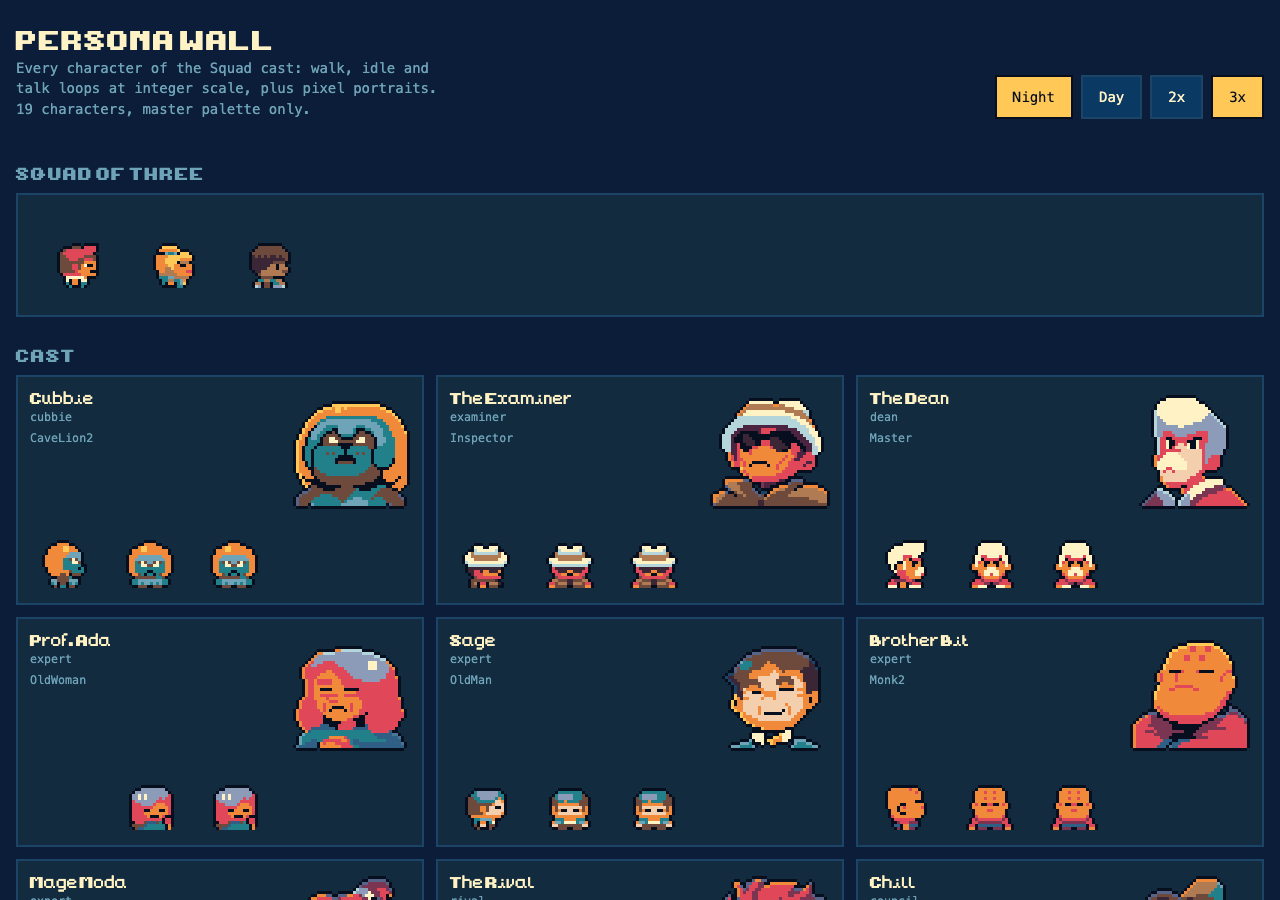
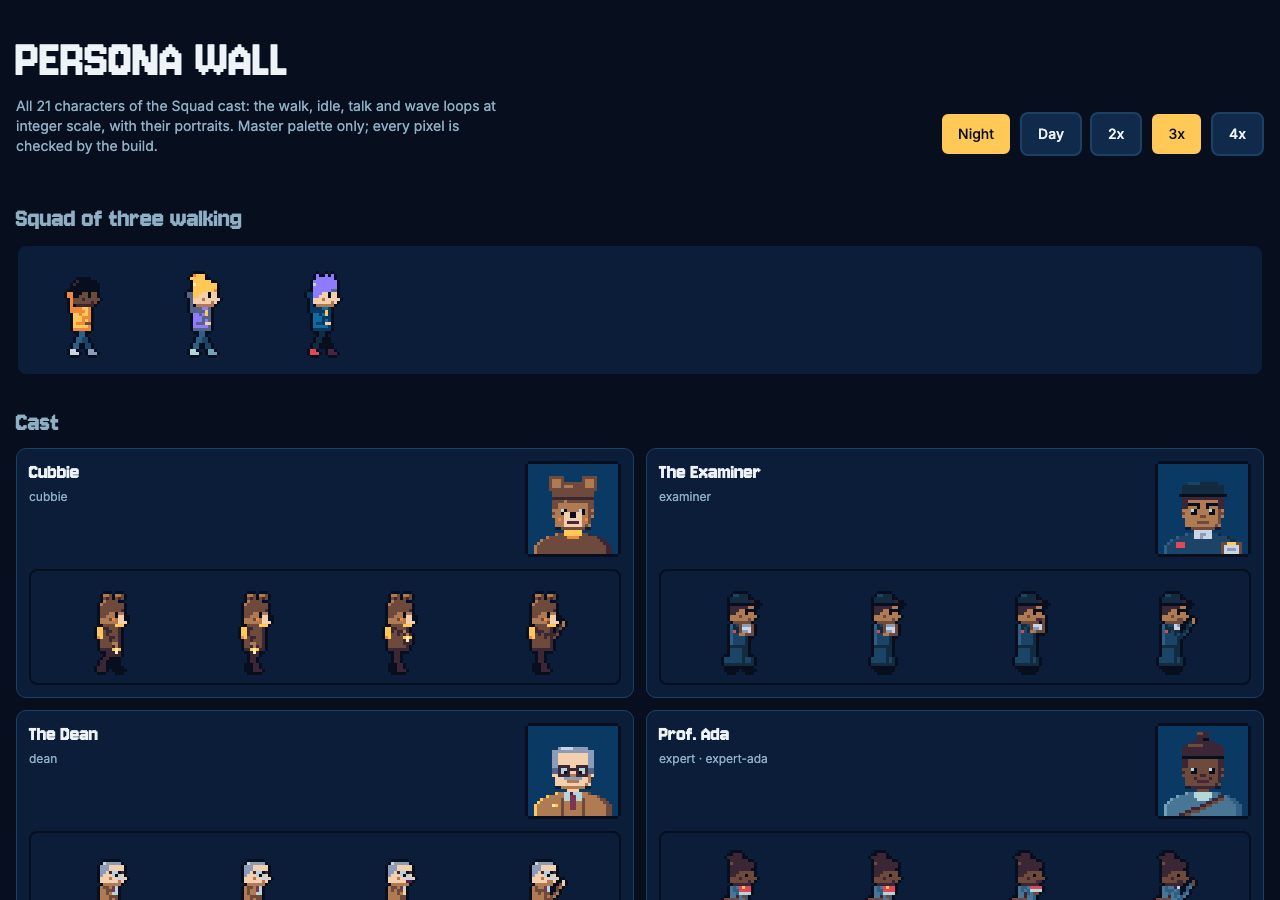
media-art: persona wall v2 (Jersey 10 + Inter, night plates), GIFs, README, shots

diff --git a/assets/sprites/wall/persona-wall.html b/assets/sprites/wall/persona-wall.html
@@ -1,49 +1,51 @@
 <!doctype html>
-<html lang="en"><head><meta charset="utf-8"><meta name="viewport" content="width=device-width,initial-scale=1">
+<html lang="en" data-theme="dark"><head><meta charset="utf-8"><meta name="viewport" content="width=device-width,initial-scale=1">
 <title>Persona Wall</title>
 <style>
-@font-face{font-family:"Ninja";src:url(pixel-font.ttf) format("truetype")}
+@font-face{font-family:"Jersey 10";src:url(../../fonts/jersey-10/Jersey10-latin.woff2) format("woff2");font-display:swap}
+@font-face{font-family:"Inter";src:url(../../fonts/inter/InterVariable-latin.woff2) format("woff2");font-weight:100 900;font-display:swap}
 :root{--ink:#070f1f;--sky-deep:#0b1d38;--sky-mid:#0a3a63;--sky-low:#0c6e9e;--cloud-lo:#6fa3b8;--cloud-hi:#b4d6da;--moon:#fff2c4;--hill-far:#4a7695;--hill-mid:#2f5f84;--hill-near:#1c4466;--ground:#122b3f;--leaf-dark:#0d3a4f;--leaf-lit:#22808a;--wall-lit:#c9d4e4;--wall-mid:#8c9bb8;--wall-shade:#56648a;--roof-wine:#7a3552;--roof-shade:#4a2440;--wood-lit:#b07a52;--wood:#6e4a3c;--wood-dark:#3a2634;--glow-core:#fff0a8;--glow:#ffc857;--ember:#f08a3a;--alert:#e0485a;--ok:#5fcf8a;--skin-lt:#f3cfae;--violet:#8f7bff;
- --bg:var(--sky-deep);--fg:var(--moon);--mut:var(--cloud-lo);--card:var(--ground);--line:var(--hill-near);--scale:3;--chip:var(--sky-mid)}
-:root[data-theme="light"]{--bg:var(--wall-lit);--fg:var(--ink);--mut:var(--wall-shade);--card:#dfe6f0;--line:var(--wall-mid);--chip:var(--cloud-hi)}
+ --bg:var(--ink);--fg:#eef3f8;--mut:#8fb0c4;--card:var(--sky-deep);--line:#1d4163;--chip:#0f2a4a;--accent:var(--glow);--on-accent:var(--ink);--px:3}
+:root[data-theme="light"]{--bg:#f4f1e8;--fg:#0b1d38;--mut:#4d5b78;--card:#fbf9f3;--line:#d6d3c6;--chip:#e9e5d8;--accent:var(--sky-deep);--on-accent:var(--moon)}
 *{box-sizing:border-box}
-body{margin:0;background:var(--bg);color:var(--fg);font:14px/1.45 ui-monospace,SFMono-Regular,Menlo,monospace}
-header{display:flex;flex-wrap:wrap;gap:12px 24px;align-items:end;justify-content:space-between;padding:24px 16px 8px;max-width:1280px;margin:0 auto}
-h1{font:400 28px/1 "Ninja",monospace;margin:0;letter-spacing:.04em}
-header p{margin:6px 0 0;color:var(--mut);max-width:52ch}
-.ctl{display:flex;gap:8px}
-button{font:inherit;min-height:44px;padding:0 16px;border:2px solid var(--line);background:var(--chip);color:var(--fg);cursor:pointer;border-radius:0}
-button[aria-pressed="true"]{background:var(--glow);color:var(--ink);border-color:var(--ink)}
+body{margin:0;background:var(--bg);color:var(--fg);font:16px/24px Inter,system-ui,sans-serif}
+header{display:flex;flex-wrap:wrap;gap:16px 24px;align-items:flex-end;justify-content:space-between;padding:32px 16px 8px;max-width:1280px;margin:0 auto}
+h1{font:400 56px/1 "Jersey 10",monospace;margin:0;letter-spacing:0}
+header p{margin:8px 0 0;color:var(--mut);max-width:56ch;font-size:14px;line-height:20px}
+.ctl{display:flex;gap:8px;flex-wrap:wrap}
+button{font:500 14px/20px Inter,sans-serif;min-height:44px;min-width:48px;padding:0 16px;border:2px solid var(--line);background:var(--chip);color:var(--fg);cursor:pointer;border-radius:8px;transition:background-color .15s,transform .1s}
+button:active{transform:scale(.97)}
+button[aria-pressed="true"]{background:var(--accent);color:var(--on-accent);border-color:var(--ink)}
 button:focus-visible{outline:3px solid var(--violet);outline-offset:2px}
-main{max-width:1280px;margin:0 auto;padding:8px 16px 48px}
-h2{font:400 18px/1 "Ninja",monospace;margin:28px 0 12px;color:var(--mut);letter-spacing:.06em}
-.squad{display:flex;gap:24px;align-items:end;padding:24px;background:var(--card);border:2px solid var(--line);overflow-x:auto}
-.grid{display:grid;grid-template-columns:repeat(auto-fill,minmax(min(100%,calc(var(--scale)*104px + 24px)),1fr));gap:12px}
-.card{background:var(--card);border:2px solid var(--line);padding:12px;display:grid;gap:10px}
-.card h3{margin:0;font:400 16px/1.1 "Ninja",monospace}.card small{color:var(--mut)}
-.row{display:flex;align-items:flex-end;gap:12px;min-height:calc(var(--scale)*24px)}
-.sp{width:calc(var(--scale)*24px);height:calc(var(--scale)*24px);flex:none;background-repeat:no-repeat;image-rendering:pixelated;background-size:calc(var(--scale)*var(--w)*24px) calc(var(--scale)*24px)}
-.sp.walk{animation:walk .5s steps(4) infinite}.sp.idle{animation:idle 1s steps(2) infinite}.sp.talk{animation:talk .25s steps(2) infinite}
-@keyframes walk{from{background-position-x:calc(var(--scale)*-24px*var(--s0))}to{background-position-x:calc(var(--scale)*-24px*(var(--s0) + 4))}}
-@keyframes idle{from{background-position-x:calc(var(--scale)*-24px*var(--s0))}to{background-position-x:calc(var(--scale)*-24px*(var(--s0) + 2))}}
-@keyframes talk{from{background-position-x:calc(var(--scale)*-24px*var(--s0))}to{background-position-x:calc(var(--scale)*-24px*(var(--s0) + 2))}}
-.port{width:calc(var(--scale)*40px);height:calc(var(--scale)*40px);image-rendering:pixelated;flex:none}.top{display:flex;justify-content:space-between;gap:8px;align-items:flex-start}
-.sw{display:grid;grid-template-columns:repeat(auto-fill,minmax(88px,1fr));gap:8px}.sw div{padding:28px 6px 6px;font-size:11px;border:2px solid var(--line)}
+main{max-width:1280px;margin:0 auto;padding:8px 16px 64px}
+h2{font:400 28px/1 "Jersey 10",monospace;margin:32px 0 12px;color:var(--mut)}
+.plate{background:var(--sky-deep);border:2px solid var(--ink);border-radius:10px;padding:16px;display:flex;gap:calc(var(--px)*8px);align-items:flex-end;overflow-x:auto}
+.grid{display:grid;grid-template-columns:repeat(auto-fill,minmax(min(100%,calc(var(--px)*32px*4 + 56px)),1fr));gap:12px}
+.card{background:var(--card);border:1px solid var(--line);border-radius:10px;padding:12px;display:grid;gap:12px}
+.top{display:flex;justify-content:space-between;gap:8px;align-items:flex-start}
+.card h3{margin:0;font:400 22px/22px "Jersey 10",monospace}.card small{color:var(--mut);font-size:12px;line-height:16px}
+.stage{background:var(--sky-deep);border:2px solid var(--ink);border-radius:8px;padding:8px;display:flex;gap:4px;align-items:flex-end;justify-content:space-around}
+.sp{width:calc(var(--px)*32px);height:calc(var(--px)*32px);flex:none;background-repeat:no-repeat;image-rendering:pixelated;background-size:auto 100%}
+.sp[data-a="walk"]{animation:walk .5s steps(4) infinite}.sp[data-a="idle"]{animation:idle 1s steps(2) infinite}.sp[data-a="talk"]{animation:talk .25s steps(2) infinite}.sp[data-a="wave"]{animation:wave .5s steps(2) infinite}
+@keyframes walk{to{background-position-x:calc(var(--px)*-128px)}}@keyframes idle{to{background-position-x:calc(var(--px)*-64px)}}@keyframes talk{to{background-position-x:calc(var(--px)*-64px)}}@keyframes wave{to{background-position-x:calc(var(--px)*-64px)}}
+.port{width:calc(var(--px)*32px);height:calc(var(--px)*32px);image-rendering:pixelated;flex:none;border-radius:0}
+.sw{display:grid;grid-template-columns:repeat(auto-fill,minmax(96px,1fr));gap:8px}.sw div{padding:32px 8px 8px;font:12px/16px Inter,sans-serif;border:2px solid var(--ink);border-radius:8px}
+@media (max-width:560px){:root{--px:2}h1{font-size:44px}}
 @media (prefers-reduced-motion:reduce){.sp{animation:none!important}}
 </style></head><body>
-<header><div><h1>PERSONA WALL</h1><p>Every character of the Squad cast: walk, idle and talk loops at integer scale, plus pixel portraits. 19 characters, master palette only.</p></div>
-<div class="ctl" role="group" aria-label="Display"><button data-t="dark" aria-pressed="true">Night</button><button data-t="light" aria-pressed="false">Day</button><button data-s="2" aria-pressed="false">2x</button><button data-s="3" aria-pressed="true">3x</button><button data-s="4" aria-pressed="false">4x</button></div></header>
-<main><h2>SQUAD OF THREE</h2><div class="squad" id="squad" aria-label="Three students walking together"></div>
-<h2>CAST</h2><div class="grid" id="grid"></div><h2>PALETTE</h2><div class="sw" id="sw"></div></main>
+<header><div><h1>PERSONA WALL</h1><p>All 21 characters of the Squad cast: the walk, idle, talk and wave loops at integer scale, with their portraits. Master palette only; every pixel is checked by the build.</p></div>
+<div class="ctl" role="group" aria-label="Display options"><button data-t="dark" aria-pressed="true">Night</button><button data-t="light" aria-pressed="false">Day</button><button data-s="2" aria-pressed="false">2x</button><button data-s="3" aria-pressed="true">3x</button><button data-s="4" aria-pressed="false">4x</button></div></header>
+<main><h2>Squad of three walking</h2><div class="plate" id="squad" aria-label="Three students walking together"></div>
+<h2>Cast</h2><div class="grid" id="grid"></div><h2>Palette</h2><div class="sw" id="sw"></div></main>
 <script>
-const P=[{"id": "cubbie", "name": "Cubbie", "role": "cubbie", "source": "CaveLion2", "anims": {"idle_r": {"frames": ["idle_r_0", "idle_r_1"], "fps": 2, "loop": true}, "idle_f": {"frames": ["idle_f_0", "idle_f_1"], "fps": 2, "loop": true}, "walk_r": {"frames": ["walk_r_0", "walk_r_1", "walk_r_2", "walk_r_3"], "fps": 8, "loop": true}, "walk_f": {"frames": ["walk_f_0", "walk_f_1", "walk_f_2", "walk_f_3"], "fps": 8, "loop": true}, "talk_r": {"frames": ["talk_r_0", "talk_r_1"], "fps": 8, "loop": true}, "talk_f": {"frames": ["talk_f_0", "talk_f_1"], "fps": 8, "loop": true}}}, {"id": "examiner", "name": "The Examiner", "role": "examiner", "source": "Inspector", "anims": {"idle_r": {"frames": ["idle_r_0", "idle_r_1"], "fps": 2, "loop": true}, "idle_f": {"frames": ["idle_f_0", "idle_f_1"], "fps": 2, "loop": true}, "walk_r": {"frames": ["walk_r_0", "walk_r_1", "walk_r_2", "walk_r_3"], "fps": 8, "loop": true}, "walk_f": {"frames": ["walk_f_0", "walk_f_1", "walk_f_2", "walk_f_3"], "fps": 8, "loop": true}, "talk_r": {"frames": ["talk_r_0", "talk_r_1"], "fps": 8, "loop": true}, "talk_f": {"frames": ["talk_f_0", "talk_f_1"], "fps": 8, "loop": true}}}, {"id": "dean", "name": "The Dean", "role": "dean", "source": "Master", "anims": {"idle_r": {"frames": ["idle_r_0", "idle_r_1"], "fps": 2, "loop": true}, "idle_f": {"frames": ["idle_f_0", "idle_f_1"], "fps": 2, "loop": true}, "walk_r": {"frames": ["walk_r_0", "walk_r_1", "walk_r_2", "walk_r_3"], "fps": 8, "loop": true}, "walk_f": {"frames": ["walk_f_0", "walk_f_1", "walk_f_2", "walk_f_3"], "fps": 8, "loop": true}, "talk_r": {"frames": ["talk_r_0", "talk_r_1"], "fps": 8, "loop": true}, "talk_f": {"frames": ["talk_f_0", "talk_f_1"], "fps": 8, "loop": true}}}, {"id": "expert-ada", "name": "Prof. Ada", "role": "expert", "source": "OldWoman", "anims": {"idle_r": {"frames": ["idle_r_0", "idle_r_1"], "fps": 2, "loop": true}, "idle_f": {"frames": ["idle_f_0", "idle_f_1"], "fps": 2, "loop": true}, "walk_r": {"frames": ["walk_r_0", "walk_r_1", "walk_r_2", "walk_r_3"], "fps": 8, "loop": true}, "walk_f": {"frames": ["walk_f_0", "walk_f_1", "walk_f_2", "walk_f_3"], "fps": 8, "loop": true}, "talk_r": {"frames": ["talk_r_0", "talk_r_1"], "fps": 8, "loop": true}, "talk_f": {"frames": ["talk_f_0", "talk_f_1"], "fps": 8, "loop": true}}}, {"id": "expert-sage", "name": "Sage", "role": "expert", "source": "OldMan", "anims": {"idle_r": {"frames": ["idle_r_0", "idle_r_1"], "fps": 2, "loop": true}, "idle_f": {"frames": ["idle_f_0", "idle_f_1"], "fps": 2, "loop": true}, "walk_r": {"frames": ["walk_r_0", "walk_r_1", "walk_r_2", "walk_r_3"], "fps": 8, "loop": true}, "walk_f": {"frames": ["walk_f_0", "walk_f_1", "walk_f_2", "walk_f_3"], "fps": 8, "loop": true}, "talk_r": {"frames": ["talk_r_0", "talk_r_1"], "fps": 8, "loop": true}, "talk_f": {"frames": ["talk_f_0", "talk_f_1"], "fps": 8, "loop": true}}}, {"id": "expert-monk", "name": "Brother Bit", "role": "expert", "source": "Monk2", "anims": {"idle_r": {"frames": ["idle_r_0", "idle_r_1"], "fps": 2, "loop": true}, "idle_f": {"frames": ["idle_f_0", "idle_f_1"], "fps": 2, "loop": true}, "walk_r": {"frames": ["walk_r_0", "walk_r_1", "walk_r_2", "walk_r_3"], "fps": 8, "loop": true}, "walk_f": {"frames": ["walk_f_0", "walk_f_1", "walk_f_2", "walk_f_3"], "fps": 8, "loop": true}, "talk_r": {"frames": ["talk_r_0", "talk_r_1"], "fps": 8, "loop": true}, "talk_f": {"frames": ["talk_f_0", "talk_f_1"], "fps": 8, "loop": true}}}, {"id": "expert-mage", "name": "Mage Moda", "role": "expert", "source": "SorcererBlack", "anims": {"idle_r": {"frames": ["idle_r_0", "idle_r_1"], "fps": 2, "loop": true}, "idle_f": {"frames": ["idle_f_0", "idle_f_1"], "fps": 2, "loop": true}, "walk_r": {"frames": ["walk_r_0", "walk_r_1", "walk_r_2", "walk_r_3"], "fps": 8, "loop": true}, "walk_f": {"frames": ["walk_f_0", "walk_f_1", "walk_f_2", "walk_f_3"], "fps": 8, "loop": true}, "talk_r": {"frames": ["talk_r_0", "talk_r_1"], "fps": 8, "loop": true}, "talk_f": {"frames": ["talk_f_0", "talk_f_1"], "fps": 8, "loop": true}}}, {"id": "rival", "name": "The Rival", "role": "rival", "source": "Hunter", "anims": {"idle_r": {"frames": ["idle_r_0", "idle_r_1"], "fps": 2, "loop": true}, "idle_f": {"frames": ["idle_f_0", "idle_f_1"], "fps": 2, "loop": true}, "walk_r": {"frames": ["walk_r_0", "walk_r_1", "walk_r_2", "walk_r_3"], "fps": 8, "loop": true}, "walk_f": {"frames": ["walk_f_0", "walk_f_1", "walk_f_2", "walk_f_3"], "fps": 8, "loop": true}, "talk_r": {"frames": ["talk_r_0", "talk_r_1"], "fps": 8, "loop": true}, "talk_f": {"frames": ["talk_f_0", "talk_f_1"], "fps": 8, "loop": true}}}, {"id": "council-chill", "name": "Chill", "role": "council", "source": "Villager6", "anims": {"idle_r": {"frames": ["idle_r_0", "idle_r_1"], "fps": 2, "loop": true}, "idle_f": {"frames": ["idle_f_0", "idle_f_1"], "fps": 2, "loop": true}, "walk_r": {"frames": ["walk_r_0", "walk_r_1", "walk_r_2", "walk_r_3"], "fps": 8, "loop": true}, "walk_f": {"frames": ["walk_f_0", "walk_f_1", "walk_f_2", "walk_f_3"], "fps": 8, "loop": true}, "talk_r": {"frames": ["talk_r_0", "talk_r_1"], "fps": 8, "loop": true}, "talk_f": {"frames": ["talk_f_0", "talk_f_1"], "fps": 8, "loop": true}}}, {"id": "council-grind", "name": "Grind", "role": "council", "source": "Samurai", "anims": {"idle_r": {"frames": ["idle_r_0", "idle_r_1"], "fps": 2, "loop": true}, "idle_f": {"frames": ["idle_f_0", "idle_f_1"], "fps": 2, "loop": true}, "walk_r": {"frames": ["walk_r_0", "walk_r_1", "walk_r_2", "walk_r_3"], "fps": 8, "loop": true}, "walk_f": {"frames": ["walk_f_0", "walk_f_1", "walk_f_2", "walk_f_3"], "fps": 8, "loop": true}, "talk_r": {"frames": ["talk_r_0", "talk_r_1"], "fps": 8, "loop": true}, "talk_f": {"frames": ["talk_f_0", "talk_f_1"], "fps": 8, "loop": true}}}, {"id": "council-advisor", "name": "Advisor", "role": "council", "source": "Noble", "anims": {"idle_r": {"frames": ["idle_r_0", "idle_r_1"], "fps": 2, "loop": true}, "idle_f": {"frames": ["idle_f_0", "idle_f_1"], "fps": 2, "loop": true}, "walk_r": {"frames": ["walk_r_0", "walk_r_1", "walk_r_2", "walk_r_3"], "fps": 8, "loop": true}, "walk_f": {"frames": ["walk_f_0", "walk_f_1", "walk_f_2", "walk_f_3"], "fps": 8, "loop": true}, "talk_r": {"frames": ["talk_r_0", "talk_r_1"], "fps": 8, "loop": true}, "talk_f": {"frames": ["talk_f_0", "talk_f_1"], "fps": 8, "loop": true}}}, {"id": "chairman", "name": "The Chairman", "role": "council", "source": "Sultan", "anims": {"idle_r": {"frames": ["idle_r_0", "idle_r_1"], "fps": 2, "loop": true}, "idle_f": {"frames": ["idle_f_0", "idle_f_1"], "fps": 2, "loop": true}, "walk_r": {"frames": ["walk_r_0", "walk_r_1", "walk_r_2", "walk_r_3"], "fps": 8, "loop": true}, "walk_f": {"frames": ["walk_f_0", "walk_f_1", "walk_f_2", "walk_f_3"], "fps": 8, "loop": true}, "talk_r": {"frames": ["talk_r_0", "talk_r_1"], "fps": 8, "loop": true}, "talk_f": {"frames": ["talk_f_0", "talk_f_1"], "fps": 8, "loop": true}}}, {"id": "feynman", "name": "Feynman Freshman", "role": "feynman", "source": "EggBoy", "anims": {"idle_r": {"frames": ["idle_r_0", "idle_r_1"], "fps": 2, "loop": true}, "idle_f": {"frames": ["idle_f_0", "idle_f_1"], "fps": 2, "loop": true}, "walk_r": {"frames": ["walk_r_0", "walk_r_1", "walk_r_2", "walk_r_3"], "fps": 8, "loop": true}, "walk_f": {"frames": ["walk_f_0", "walk_f_1", "walk_f_2", "walk_f_3"], "fps": 8, "loop": true}, "talk_r": {"frames": ["talk_r_0", "talk_r_1"], "fps": 8, "loop": true}, "talk_f": {"frames": ["talk_f_0", "talk_f_1"], "fps": 8, "loop": true}}}, {"id": "student-01", "name": "Student 1", "role": "student", "source": "Boy", "anims": {"idle_r": {"frames": ["idle_r_0", "idle_r_1"], "fps": 2, "loop": true}, "idle_f": {"frames": ["idle_f_0", "idle_f_1"], "fps": 2, "loop": true}, "walk_r": {"frames": ["walk_r_0", "walk_r_1", "walk_r_2", "walk_r_3"], "fps": 8, "loop": true}, "walk_f": {"frames": ["walk_f_0", "walk_f_1", "walk_f_2", "walk_f_3"], "fps": 8, "loop": true}, "talk_r": {"frames": ["talk_r_0", "talk_r_1"], "fps": 8, "loop": true}, "talk_f": {"frames": ["talk_f_0", "talk_f_1"], "fps": 8, "loop": true}}}, {"id": "student-02", "name": "Student 2", "role": "student", "source": "Villager3", "anims": {"idle_r": {"frames": ["idle_r_0", "idle_r_1"], "fps": 2, "loop": true}, "idle_f": {"frames": ["idle_f_0", "idle_f_1"], "fps": 2, "loop": true}, "walk_r": {"frames": ["walk_r_0", "walk_r_1", "walk_r_2", "walk_r_3"], "fps": 8, "loop": true}, "walk_f": {"frames": ["walk_f_0", "walk_f_1", "walk_f_2", "walk_f_3"], "fps": 8, "loop": true}, "talk_r": {"frames": ["talk_r_0", "talk_r_1"], "fps": 8, "loop": true}, "talk_f": {"frames": ["talk_f_0", "talk_f_1"], "fps": 8, "loop": true}}}, {"id": "student-03", "name": "Student 3", "role": "student", "source": "Villager4", "anims": {"idle_r": {"frames": ["idle_r_0", "idle_r_1"], "fps": 2, "loop": true}, "idle_f": {"frames": ["idle_f_0", "idle_f_1"], "fps": 2, "loop": true}, "walk_r": {"frames": ["walk_r_0", "walk_r_1", "walk_r_2", "walk_r_3"], "fps": 8, "loop": true}, "walk_f": {"frames": ["walk_f_0", "walk_f_1", "walk_f_2", "walk_f_3"], "fps": 8, "loop": true}, "talk_r": {"frames": ["talk_r_0", "talk_r_1"], "fps": 8, "loop": true}, "talk_f": {"frames": ["talk_f_0", "talk_f_1"], "fps": 8, "loop": true}}}, {"id": "student-04", "name": "Student 4", "role": "student", "source": "Woman", "anims": {"idle_r": {"frames": ["idle_r_0", "idle_r_1"], "fps": 2, "loop": true}, "idle_f": {"frames": ["idle_f_0", "idle_f_1"], "fps": 2, "loop": true}, "walk_r": {"frames": ["walk_r_0", "walk_r_1", "walk_r_2", "walk_r_3"], "fps": 8, "loop": true}, "walk_f": {"frames": ["walk_f_0", "walk_f_1", "walk_f_2", "walk_f_3"], "fps": 8, "loop": true}, "talk_r": {"frames": ["talk_r_0", "talk_r_1"], "fps": 8, "loop": true}, "talk_f": {"frames": ["talk_f_0", "talk_f_1"], "fps": 8, "loop": true}}}, {"id": "student-05", "name": "Student 5", "role": "student", "source": "Cavegirl2", "anims": {"idle_r": {"frames": ["idle_r_0", "idle_r_1"], "fps": 2, "loop": true}, "idle_f": {"frames": ["idle_f_0", "idle_f_1"], "fps": 2, "loop": true}, "walk_r": {"frames": ["walk_r_0", "walk_r_1", "walk_r_2", "walk_r_3"], "fps": 8, "loop": true}, "walk_f": {"frames": ["walk_f_0", "walk_f_1", "walk_f_2", "walk_f_3"], "fps": 8, "loop": true}, "talk_r": {"frames": ["talk_r_0", "talk_r_1"], "fps": 8, "loop": true}, "talk_f": {"frames": ["talk_f_0", "talk_f_1"], "fps": 8, "loop": true}}}, {"id": "student-06", "name": "Student 6", "role": "student", "source": "Villager5", "anims": {"idle_r": {"frames": ["idle_r_0", "idle_r_1"], "fps": 2, "loop": true}, "idle_f": {"frames": ["idle_f_0", "idle_f_1"], "fps": 2, "loop": true}, "walk_r": {"frames": ["walk_r_0", "walk_r_1", "walk_r_2", "walk_r_3"], "fps": 8, "loop": true}, "walk_f": {"frames": ["walk_f_0", "walk_f_1", "walk_f_2", "walk_f_3"], "fps": 8, "loop": true}, "talk_r": {"frames": ["talk_r_0", "talk_r_1"], "fps": 8, "loop": true}, "talk_f": {"frames": ["talk_f_0", "talk_f_1"], "fps": 8, "loop": true}}}],W=16,STRIP=["idle_r_0", "idle_r_1", "idle_f_0", "idle_f_1", "walk_r_0", "walk_r_1", "walk_r_2", "walk_r_3", "walk_f_0", "walk_f_1", "walk_f_2", "walk_f_3", "talk_r_0", "talk_r_1", "talk_f_0", "talk_f_1"],col=n=>STRIP.indexOf(n);
-const sp=(p,a,first,cls)=>`<div class="sp ${cls}" role="img" aria-label="${p.name} ${a}" style="--w:${W};--s0:${col(first)};background-image:url(../${p.id}/sheet.png)"></div>`;
-const grid=document.getElementById('grid');
-grid.innerHTML=P.map(p=>`<article class="card"><div class="top"><div><h3>${p.name}</h3><small>${p.role}<br>${p.source}</small></div><img class="port" alt="${p.name} portrait" src="../${p.id}/portrait.png"></div><div class="row">${sp(p,'walking','walk_r_0','walk')}${sp(p,'idle','idle_f_0','idle')}${sp(p,'talking','talk_f_0','talk')}</div></article>`).join('');
-document.getElementById('squad').innerHTML=['student-01','student-04','student-02'].map(id=>P.find(p=>p.id==id)).filter(Boolean).map(p=>sp(p,'walking','walk_r_0','walk')).join('');
-document.getElementById('sw').innerHTML=Object.entries({"ink": "#070f1f", "sky-deep": "#0b1d38", "sky-mid": "#0a3a63", "sky-low": "#0c6e9e", "cloud-lo": "#6fa3b8", "cloud-hi": "#b4d6da", "moon": "#fff2c4", "hill-far": "#4a7695", "hill-mid": "#2f5f84", "hill-near": "#1c4466", "ground": "#122b3f", "leaf-dark": "#0d3a4f", "leaf-lit": "#22808a", "wall-lit": "#c9d4e4", "wall-mid": "#8c9bb8", "wall-shade": "#56648a", "roof-wine": "#7a3552", "roof-shade": "#4a2440", "wood-lit": "#b07a52", "wood": "#6e4a3c", "wood-dark": "#3a2634", "glow-core": "#fff0a8", "glow": "#ffc857", "ember": "#f08a3a", "alert": "#e0485a", "ok": "#5fcf8a", "skin-lt": "#f3cfae", "violet": "#8f7bff"}).map(([k,v])=>`<div style="background:${v};color:${parseInt(v.slice(1,3),16)*.3+parseInt(v.slice(3,5),16)*.6+parseInt(v.slice(5,7),16)*.1>140?'#070f1f':'#fff2c4'}">${k}<br>${v}</div>`).join('');
-const root=document.documentElement;
+const P=[{"id": "cubbie", "name": "Cubbie", "role": "cubbie", "spec": "cubbie", "headTop": 4}, {"id": "examiner", "name": "The Examiner", "role": "examiner", "spec": "examiner", "headTop": 4}, {"id": "dean", "name": "The Dean", "role": "dean", "spec": "dean", "headTop": 6}, {"id": "expert-ada", "name": "Prof. Ada", "role": "expert", "spec": "expert", "headTop": 3}, {"id": "expert-sage", "name": "Sage", "role": "expert", "spec": "expert-sage", "headTop": 6}, {"id": "expert-monk", "name": "Brother Bit", "role": "expert", "spec": "expert-monk", "headTop": 6}, {"id": "expert-mage", "name": "Mage Moda", "role": "expert", "spec": "expert-mage", "headTop": 1}, {"id": "rival", "name": "The Rival", "role": "rival", "spec": "rival", "headTop": 3}, {"id": "council-chill", "name": "Chill", "role": "council", "spec": "council-chill", "headTop": 5}, {"id": "council-grind", "name": "Grind", "role": "council", "spec": "council-hard", "headTop": 5}, {"id": "council-advisor", "name": "Advisor", "role": "council", "spec": "council-balance", "headTop": 5}, {"id": "chairman", "name": "The Chairman", "role": "council", "spec": "chairman", "headTop": 0}, {"id": "feynman", "name": "Feynman Freshman", "role": "feynman", "spec": "freshman", "headTop": 9}, {"id": "student-01", "name": "Student 1", "role": "student", "spec": "student", "headTop": 5}, {"id": "student-02", "name": "Student 2", "role": "student", "spec": "student-02", "headTop": 5}, {"id": "student-03", "name": "Student 3", "role": "student", "spec": "student-03", "headTop": 5}, {"id": "student-04", "name": "Student 4", "role": "student", "spec": "student-04", "headTop": 3}, {"id": "student-05", "name": "Student 5", "role": "student", "spec": "student-05", "headTop": 5}, {"id": "student-06", "name": "Student 6", "role": "student", "spec": "student-06", "headTop": 3}, {"id": "mediator", "name": "The Mediator", "role": "mediator", "spec": "mediator", "headTop": 4}, {"id": "ta", "name": "The TA", "role": "ta", "spec": "ta", "headTop": 3}];
+const sp=(p,a)=>`<div class="sp" data-a="${a}" role="img" aria-label="${p.name} ${a}" style="background-image:url(../${p.id}/${a}.png)"></div>`;
+document.getElementById('grid').innerHTML=P.map(p=>`<article class="card"><div class="top"><div><h3>${p.name}</h3><small>${p.role==p.id?p.role:p.role+' &middot; '+p.id}</small></div><img class="port" alt="${p.name} portrait" src="../${p.id}/portrait.png"></div><div class="stage">${['walk','idle','talk','wave'].map(a=>sp(p,a)).join('')}</div></article>`).join('');
+document.getElementById('squad').innerHTML=['student-02','student-04','student-06'].map(id=>P.find(p=>p.id==id)).filter(Boolean).map(p=>sp(p,'walk')).join('');
+const lum=v=>parseInt(v.slice(1,3),16)*.3+parseInt(v.slice(3,5),16)*.6+parseInt(v.slice(5,7),16)*.1;
+document.getElementById('sw').innerHTML=Object.entries({"ink": "#070f1f", "sky-deep": "#0b1d38", "sky-mid": "#0a3a63", "sky-low": "#0c6e9e", "cloud-lo": "#6fa3b8", "cloud-hi": "#b4d6da", "moon": "#fff2c4", "hill-far": "#4a7695", "hill-mid": "#2f5f84", "hill-near": "#1c4466", "ground": "#122b3f", "leaf-dark": "#0d3a4f", "leaf-lit": "#22808a", "wall-lit": "#c9d4e4", "wall-mid": "#8c9bb8", "wall-shade": "#56648a", "roof-wine": "#7a3552", "roof-shade": "#4a2440", "wood-lit": "#b07a52", "wood": "#6e4a3c", "wood-dark": "#3a2634", "glow-core": "#fff0a8", "glow": "#ffc857", "ember": "#f08a3a", "alert": "#e0485a", "ok": "#5fcf8a", "skin-lt": "#f3cfae", "violet": "#8f7bff"}).map(([k,v])=>`<div style="background:${v};color:${lum(v)>140?'#070f1f':'#fff2c4'}">${k}<br>${v}</div>`).join('');
+const root=document.documentElement;const cur=getComputedStyle(root).getPropertyValue('--px').trim();document.querySelectorAll('[data-s]').forEach(x=>x.setAttribute('aria-pressed',String(x.dataset.s===cur)));
 document.querySelectorAll('button').forEach(b=>b.onclick=()=>{
- if(b.dataset.t){root.dataset.theme=b.dataset.t;document.querySelectorAll('[data-t]').forEach(x=>x.setAttribute('aria-pressed',x===b))}
- if(b.dataset.s){root.style.setProperty('--scale',b.dataset.s);document.querySelectorAll('[data-s]').forEach(x=>x.setAttribute('aria-pressed',x===b))}});
+ if(b.dataset.t){root.dataset.theme=b.dataset.t;document.querySelectorAll('[data-t]').forEach(x=>x.setAttribute('aria-pressed',String(x===b)))}
+ if(b.dataset.s){root.style.setProperty('--px',b.dataset.s);document.querySelectorAll('[data-s]').forEach(x=>x.setAttribute('aria-pressed',String(x===b)))}});
 </script></body></html>

diff --git a/packages/media/src/gif/buildGif.ts b/packages/media/src/gif/buildGif.ts
@@ -9,7 +9,7 @@ import { spritesDir } from '../sprites/index.js';
 const HERE = dirname(fileURLToPath(import.meta.url));
 const FFMPEG = process.env.FFMPEG_PATH ?? 'ffmpeg';
 
-export type GifAnim = 'idle' | 'walk' | 'talk' | 'hello';
+export type GifAnim = 'idle' | 'walk' | 'talk' | 'wave' | 'hello';
 export interface BuildGifOptions {
   id: string;
   anim: GifAnim;

diff --git a/packages/media/src/sprites/wall/build_wall.py b/packages/media/src/sprites/wall/build_wall.py
@@ -1,6 +1,7 @@
 #!/usr/bin/env python3
 """Persona Wall: python3 packages/media/src/sprites/wall/build_wall.py
-Writes assets/sprites/wall/{wall-light.png, wall-dark.png, persona-wall.html}. Rebuilds from whatever is in assets/sprites."""
+Writes assets/sprites/wall/{wall-dark.png, wall-light.png, persona-wall.html}. Rebuilds from whatever is in assets/sprites.
+Design rules from docs/design/DESIGN.md: night art never sits on white (each sprite gets a sky-deep plate), integer scales, Jersey 10 + Inter."""
 import os, sys, json
 HERE = os.path.dirname(os.path.abspath(__file__))
 ROOT = os.path.abspath(os.path.join(HERE, '../../../../..'))
@@ -9,95 +10,96 @@ from palette import PALETTE, RGB
 from PIL import Image, ImageDraw, ImageFont
 
 SP = os.path.join(ROOT, 'assets/sprites'); OUT = os.path.join(SP, 'wall')
-FONT = os.path.join(OUT, 'pixel-font.ttf')
-meta = json.load(open(os.path.join(SP, 'cast.meta.json')))
-P = meta['personas']
-STRIP = ['idle_r_0', 'idle_r_1', 'walk_r_0', 'walk_r_1', 'walk_r_2', 'walk_r_3', 'idle_f_0', 'idle_f_1', 'talk_f_0', 'talk_f_1', 'talk_r_0', 'talk_r_1']
+JERSEY = os.path.join(ROOT, 'assets/fonts/jersey-10/Jersey10-Regular.ttf'); INTER = os.path.join(ROOT, 'assets/fonts/inter/InterVariable.ttf')
+meta = json.load(open(os.path.join(SP, 'cast.meta.json'))); P = meta['personas']
+STRIP = [('idle', 2), ('walk', 4), ('talk', 2), ('sit', 2), ('wave', 2)]
 
 def frames(pid):
-    d = os.path.join(SP, pid); fj = json.load(open(os.path.join(d, 'frames.json'))); sh = Image.open(os.path.join(d, fj['image'])).convert('RGBA')
-    return {n: sh.crop((r['x'], r['y'], r['x']+r['w'], r['y']+r['h'])) for n, r in fj['frames'].items()}
+    out = {}
+    for k, n in STRIP:
+        s = Image.open(os.path.join(SP, pid, k + '.png')).convert('RGBA')
+        out[k] = [s.crop((i * 32, 0, i * 32 + 32, 32)) for i in range(n)]
+    return out
 
-def render(theme, scale):
-    bg, fg, mut, line = (RGB['wall-lit'], RGB['ink'], RGB['wall-shade'], RGB['wall-mid']) if theme == 'light' else (RGB['sky-deep'], RGB['moon'], RGB['cloud-lo'], RGB['hill-near'])
-    cell = 24*scale; cols = len(STRIP); pw = 40*scale; rowh = max(cell, pw) + 14*2 + 8
-    W = 16 + pw + 12 + cell*cols + 16; H = 56 + rowh*len(P) + 16
+def render(theme, scale=3):
+    paper = theme == 'light'
+    bg, fg, mut, line = ((0xf4, 0xf1, 0xe8), RGB['sky-deep'], RGB['wall-shade'], (0xd6, 0xd3, 0xc6)) if paper else (RGB['ink'], (0xee, 0xf3, 0xf8), (0x8f, 0xb0, 0xc4), (0x1d, 0x41, 0x63))
+    cell = 32 * scale; plate_w = (2 + 4 + 2 + 2 + 2) * cell + 5 * 6 + 12
+    pad = 16; col_w = plate_w + cell + pad * 3; cols = 1
+    rows = len(P); rowh = cell + 40
+    W = pad * 2 + 130 + plate_w + cell + 12; H = 72 + rows * rowh + pad
     im = Image.new('RGBA', (W, H), bg + (255,)); d = ImageDraw.Draw(im)
-    f1 = ImageFont.truetype(FONT, 16); f2 = ImageFont.truetype(FONT, 12)
-    d.text((16, 14), f'PERSONA WALL  {theme}  {scale}x', font=f1, fill=fg); d.text((16, 34), 'idle r x2 | walk r x4 | idle f x2 | talk f x2 | talk r x2', font=f2, fill=mut)
+    fj, fi = ImageFont.truetype(JERSEY, 30), ImageFont.truetype(INTER, 13)
+    d.text((pad, 14), f'PERSONA WALL  {len(P)} characters  {scale}x  {"day" if paper else "night"}', font=fj, fill=fg)
+    d.text((pad, 46), 'idle 2 | walk 4 | talk 2 | sit 2 | wave 2 | portrait', font=fi, fill=mut)
     for i, p in enumerate(P):
-        y = 56 + i*rowh; d.line([(16, y-4), (W-16, y-4)], fill=line)
-        d.text((16, y), f"{p['name']}  ({p['role']})", font=f2, fill=fg)
-        fr = frames(p['id']); pimg = Image.open(os.path.join(SP, p['id'], 'portrait.png')).convert('RGBA').resize((pw, pw), Image.NEAREST)
-        im.alpha_composite(pimg, (16, y+14))
-        for k, n in enumerate(STRIP): im.alpha_composite(fr[n].resize((cell, cell), Image.NEAREST), (16+pw+12+k*cell, y+14))
-    im.convert('RGB').save(os.path.join(OUT, f'wall-{theme}.png'), optimize=True)
+        y = 72 + i * rowh; d.line([(pad, y - 6), (W - pad, y - 6)], fill=line)
+        d.text((pad, y), p['name'], font=ImageFont.truetype(JERSEY, 22), fill=fg); d.text((pad, y + 22), p['role'], font=fi, fill=mut)
+        plate = Image.new('RGBA', (plate_w, cell + 8), RGB['sky-deep'] + (255,)); fr = frames(p['id']); x = 6
+        for k, n in STRIP:
+            for f in fr[k]: plate.alpha_composite(f.resize((cell, cell), Image.NEAREST), (x, 4)); x += cell
+            x += 6
+        im.alpha_composite(plate, (pad + 130, y))
+        port = Image.open(os.path.join(SP, p['id'], 'portrait.png')).convert('RGBA').resize((cell, cell), Image.NEAREST)
+        im.alpha_composite(port, (pad + 130 + plate_w + 12, y))
+    im.convert('RGB').save(os.path.join(OUT, f'wall-{"light" if paper else "dark"}.png'), optimize=True)
 
 HTML = r'''<!doctype html>
-<html lang="en"><head><meta charset="utf-8"><meta name="viewport" content="width=device-width,initial-scale=1">
+<html lang="en" data-theme="dark"><head><meta charset="utf-8"><meta name="viewport" content="width=device-width,initial-scale=1">
 <title>Persona Wall</title>
 <style>
-@font-face{font-family:"Ninja";src:url(pixel-font.ttf) format("truetype")}
+@font-face{font-family:"Jersey 10";src:url(../../fonts/jersey-10/Jersey10-latin.woff2) format("woff2");font-display:swap}
+@font-face{font-family:"Inter";src:url(../../fonts/inter/InterVariable-latin.woff2) format("woff2");font-weight:100 900;font-display:swap}
 :root{__TOKENS__
- --bg:var(--sky-deep);--fg:var(--moon);--mut:var(--cloud-lo);--card:var(--ground);--line:var(--hill-near);--scale:3;--chip:var(--sky-mid)}
-:root[data-theme="light"]{--bg:var(--wall-lit);--fg:var(--ink);--mut:var(--wall-shade);--card:#dfe6f0;--line:var(--wall-mid);--chip:var(--cloud-hi)}
+ --bg:var(--ink);--fg:#eef3f8;--mut:#8fb0c4;--card:var(--sky-deep);--line:#1d4163;--chip:#0f2a4a;--accent:var(--glow);--on-accent:var(--ink);--px:3}
+:root[data-theme="light"]{--bg:#f4f1e8;--fg:#0b1d38;--mut:#4d5b78;--card:#fbf9f3;--line:#d6d3c6;--chip:#e9e5d8;--accent:var(--sky-deep);--on-accent:var(--moon)}
 *{box-sizing:border-box}
-body{margin:0;background:var(--bg);color:var(--fg);font:14px/1.45 ui-monospace,SFMono-Regular,Menlo,monospace}
-header{display:flex;flex-wrap:wrap;gap:12px 24px;align-items:end;justify-content:space-between;padding:24px 16px 8px;max-width:1280px;margin:0 auto}
-h1{font:400 28px/1 "Ninja",monospace;margin:0;letter-spacing:.04em}
-header p{margin:6px 0 0;color:var(--mut);max-width:52ch}
-.ctl{display:flex;gap:8px}
-button{font:inherit;min-height:44px;padding:0 16px;border:2px solid var(--line);background:var(--chip);color:var(--fg);cursor:pointer;border-radius:0}
-button[aria-pressed="true"]{background:var(--glow);color:var(--ink);border-color:var(--ink)}
+body{margin:0;background:var(--bg);color:var(--fg);font:16px/24px Inter,system-ui,sans-serif}
+header{display:flex;flex-wrap:wrap;gap:16px 24px;align-items:flex-end;justify-content:space-between;padding:32px 16px 8px;max-width:1280px;margin:0 auto}
+h1{font:400 56px/1 "Jersey 10",monospace;margin:0;letter-spacing:0}
+header p{margin:8px 0 0;color:var(--mut);max-width:56ch;font-size:14px;line-height:20px}
+.ctl{display:flex;gap:8px;flex-wrap:wrap}
+button{font:500 14px/20px Inter,sans-serif;min-height:44px;min-width:48px;padding:0 16px;border:2px solid var(--line);background:var(--chip);color:var(--fg);cursor:pointer;border-radius:8px;transition:background-color .15s,transform .1s}
+button:active{transform:scale(.97)}
+button[aria-pressed="true"]{background:var(--accent);color:var(--on-accent);border-color:var(--ink)}
 button:focus-visible{outline:3px solid var(--violet);outline-offset:2px}
-main{max-width:1280px;margin:0 auto;padding:8px 16px 48px}
-h2{font:400 18px/1 "Ninja",monospace;margin:28px 0 12px;color:var(--mut);letter-spacing:.06em}
-.squad{display:flex;gap:24px;align-items:end;padding:24px;background:var(--card);border:2px solid var(--line);overflow-x:auto}
-.grid{display:grid;grid-template-columns:repeat(auto-fill,minmax(min(100%,calc(var(--scale)*104px + 24px)),1fr));gap:12px}
-.card{background:var(--card);border:2px solid var(--line);padding:12px;display:grid;gap:10px}
-.card h3{margin:0;font:400 16px/1.1 "Ninja",monospace}.card small{color:var(--mut)}
-.row{display:flex;align-items:flex-end;gap:12px;min-height:calc(var(--scale)*24px)}
-.sp{width:calc(var(--scale)*24px);height:calc(var(--scale)*24px);flex:none;background-repeat:no-repeat;image-rendering:pixelated;background-size:calc(var(--scale)*var(--w)*24px) calc(var(--scale)*24px)}
-.sp.walk{animation:walk .5s steps(4) infinite}.sp.idle{animation:idle 1s steps(2) infinite}.sp.talk{animation:talk .25s steps(2) infinite}
-@keyframes walk{from{background-position-x:calc(var(--scale)*-24px*var(--s0))}to{background-position-x:calc(var(--scale)*-24px*(var(--s0) + 4))}}
-@keyframes idle{from{background-position-x:calc(var(--scale)*-24px*var(--s0))}to{background-position-x:calc(var(--scale)*-24px*(var(--s0) + 2))}}
-@keyframes talk{from{background-position-x:calc(var(--scale)*-24px*var(--s0))}to{background-position-x:calc(var(--scale)*-24px*(var(--s0) + 2))}}
-.port{width:calc(var(--scale)*40px);height:calc(var(--scale)*40px);image-rendering:pixelated;flex:none}.top{display:flex;justify-content:space-between;gap:8px;align-items:flex-start}
-.sw{display:grid;grid-template-columns:repeat(auto-fill,minmax(88px,1fr));gap:8px}.sw div{padding:28px 6px 6px;font-size:11px;border:2px solid var(--line)}
+main{max-width:1280px;margin:0 auto;padding:8px 16px 64px}
+h2{font:400 28px/1 "Jersey 10",monospace;margin:32px 0 12px;color:var(--mut)}
+.plate{background:var(--sky-deep);border:2px solid var(--ink);border-radius:10px;padding:16px;display:flex;gap:calc(var(--px)*8px);align-items:flex-end;overflow-x:auto}
+.grid{display:grid;grid-template-columns:repeat(auto-fill,minmax(min(100%,calc(var(--px)*32px*4 + 56px)),1fr));gap:12px}
+.card{background:var(--card);border:1px solid var(--line);border-radius:10px;padding:12px;display:grid;gap:12px}
+.top{display:flex;justify-content:space-between;gap:8px;align-items:flex-start}
+.card h3{margin:0;font:400 22px/22px "Jersey 10",monospace}.card small{color:var(--mut);font-size:12px;line-height:16px}
+.stage{background:var(--sky-deep);border:2px solid var(--ink);border-radius:8px;padding:8px;display:flex;gap:4px;align-items:flex-end;justify-content:space-around}
+.sp{width:calc(var(--px)*32px);height:calc(var(--px)*32px);flex:none;background-repeat:no-repeat;image-rendering:pixelated;background-size:auto 100%}
+.sp[data-a="walk"]{animation:walk .5s steps(4) infinite}.sp[data-a="idle"]{animation:idle 1s steps(2) infinite}.sp[data-a="talk"]{animation:talk .25s steps(2) infinite}.sp[data-a="wave"]{animation:wave .5s steps(2) infinite}
+@keyframes walk{to{background-position-x:calc(var(--px)*-128px)}}@keyframes idle{to{background-position-x:calc(var(--px)*-64px)}}@keyframes talk{to{background-position-x:calc(var(--px)*-64px)}}@keyframes wave{to{background-position-x:calc(var(--px)*-64px)}}
+.port{width:calc(var(--px)*32px);height:calc(var(--px)*32px);image-rendering:pixelated;flex:none;border-radius:0}
+.sw{display:grid;grid-template-columns:repeat(auto-fill,minmax(96px,1fr));gap:8px}.sw div{padding:32px 8px 8px;font:12px/16px Inter,sans-serif;border:2px solid var(--ink);border-radius:8px}
+@media (max-width:560px){:root{--px:2}h1{font-size:44px}}
 @media (prefers-reduced-motion:reduce){.sp{animation:none!important}}
 </style></head><body>
-<header><div><h1>PERSONA WALL</h1><p>Every character of the Squad cast: walk, idle and talk loops at integer scale, plus pixel portraits. __N__ characters, master palette only.</p></div>
-<div class="ctl" role="group" aria-label="Display"><button data-t="dark" aria-pressed="true">Night</button><button data-t="light" aria-pressed="false">Day</button><button data-s="2" aria-pressed="false">2x</button><button data-s="3" aria-pressed="true">3x</button><button data-s="4" aria-pressed="false">4x</button></div></header>
-<main><h2>SQUAD OF THREE</h2><div class="squad" id="squad" aria-label="Three students walking together"></div>
-<h2>CAST</h2><div class="grid" id="grid"></div><h2>PALETTE</h2><div class="sw" id="sw"></div></main>
+<header><div><h1>PERSONA WALL</h1><p>All __N__ characters of the Squad cast: the walk, idle, talk and wave loops at integer scale, with their portraits. Master palette only; every pixel is checked by the build.</p></div>
+<div class="ctl" role="group" aria-label="Display options"><button data-t="dark" aria-pressed="true">Night</button><button data-t="light" aria-pressed="false">Day</button><button data-s="2" aria-pressed="false">2x</button><button data-s="3" aria-pressed="true">3x</button><button data-s="4" aria-pressed="false">4x</button></div></header>
+<main><h2>Squad of three walking</h2><div class="plate" id="squad" aria-label="Three students walking together"></div>
+<h2>Cast</h2><div class="grid" id="grid"></div><h2>Palette</h2><div class="sw" id="sw"></div></main>
 <script>
-const P=__DATA__,W=__W__,STRIP=__STRIP__,col=n=>STRIP.indexOf(n);
-const sp=(p,a,first,cls)=>`<div class="sp ${cls}" role="img" aria-label="${p.name} ${a}" style="--w:${W};--s0:${col(first)};background-image:url(../${p.id}/sheet.png)"></div>`;
-const grid=document.getElementById('grid');
-grid.innerHTML=P.map(p=>`<article class="card"><div class="top"><div><h3>${p.name}</h3><small>${p.role}<br>${p.source}</small></div><img class="port" alt="${p.name} portrait" src="../${p.id}/portrait.png"></div><div class="row">${sp(p,'walking','walk_r_0','walk')}${sp(p,'idle','idle_f_0','idle')}${sp(p,'talking','talk_f_0','talk')}</div></article>`).join('');
-document.getElementById('squad').innerHTML=['student-01','student-04','student-02'].map(id=>P.find(p=>p.id==id)).filter(Boolean).map(p=>sp(p,'walking','walk_r_0','walk')).join('');
-document.getElementById('sw').innerHTML=Object.entries(__PAL__).map(([k,v])=>`<div style="background:${v};color:${parseInt(v.slice(1,3),16)*.3+parseInt(v.slice(3,5),16)*.6+parseInt(v.slice(5,7),16)*.1>140?'#070f1f':'#fff2c4'}">${k}<br>${v}</div>`).join('');
-const root=document.documentElement;
+const P=__DATA__;
+const sp=(p,a)=>`<div class="sp" data-a="${a}" role="img" aria-label="${p.name} ${a}" style="background-image:url(../${p.id}/${a}.png)"></div>`;
+document.getElementById('grid').innerHTML=P.map(p=>`<article class="card"><div class="top"><div><h3>${p.name}</h3><small>${p.role==p.id?p.role:p.role+' &middot; '+p.id}</small></div><img class="port" alt="${p.name} portrait" src="../${p.id}/portrait.png"></div><div class="stage">${['walk','idle','talk','wave'].map(a=>sp(p,a)).join('')}</div></article>`).join('');
+document.getElementById('squad').innerHTML=['student-02','student-04','student-06'].map(id=>P.find(p=>p.id==id)).filter(Boolean).map(p=>sp(p,'walk')).join('');
+const lum=v=>parseInt(v.slice(1,3),16)*.3+parseInt(v.slice(3,5),16)*.6+parseInt(v.slice(5,7),16)*.1;
+document.getElementById('sw').innerHTML=Object.entries(__PAL__).map(([k,v])=>`<div style="background:${v};color:${lum(v)>140?'#070f1f':'#fff2c4'}">${k}<br>${v}</div>`).join('');
+const root=document.documentElement;const cur=getComputedStyle(root).getPropertyValue('--px').trim();document.querySelectorAll('[data-s]').forEach(x=>x.setAttribute('aria-pressed',String(x.dataset.s===cur)));
 document.querySelectorAll('button').forEach(b=>b.onclick=()=>{
- if(b.dataset.t){root.dataset.theme=b.dataset.t;document.querySelectorAll('[data-t]').forEach(x=>x.setAttribute('aria-pressed',x===b))}
- if(b.dataset.s){root.style.setProperty('--scale',b.dataset.s);document.querySelectorAll('[data-s]').forEach(x=>x.setAttribute('aria-pressed',x===b))}});
+ if(b.dataset.t){root.dataset.theme=b.dataset.t;document.querySelectorAll('[data-t]').forEach(x=>x.setAttribute('aria-pressed',String(x===b)))}
+ if(b.dataset.s){root.style.setProperty('--px',b.dataset.s);document.querySelectorAll('[data-s]').forEach(x=>x.setAttribute('aria-pressed',String(x===b)))}});
 </script></body></html>'''
 
 def main():
     os.makedirs(OUT, exist_ok=True)
-    for t in ('light', 'dark'): render(t, 3)
+    for t in ('light', 'dark'): render(t)
     tokens = ''.join(f'--{k}:{v};' for k, v in PALETTE.items())
-    first = os.path.join(SP, P[0]['id'], 'sheet.png'); W = Image.open(first).width // 24 * 24 // 24  # frames per strip
-    html = HTML.replace('__TOKENS__', tokens).replace('__N__', str(len(P))).replace('__DATA__', json.dumps(P)).replace('__W__', str(W)).replace('__STRIP__', json.dumps(STRIP_ORDER())).replace('__PAL__', json.dumps(PALETTE))
-    open(os.path.join(OUT, 'persona-wall.html'), 'w').write(html)
-    print('wall', len(P))
-
-def STRIP_ORDER():
-    """Strip order of sheet.png per docs/sprite-api.md writer: for anim in idle,walk,talk: for dir in r,f: frames."""
-    out = []
-    for a, n in (('idle', 2), ('walk', 4), ('talk', 2)):
-        for d in ('r', 'f'):
-            out += [f'{a}_{d}_{i}' for i in range(n)]
-    return out
-
+    html = HTML.replace('__TOKENS__', tokens).replace('__N__', str(len(P))).replace('__DATA__', json.dumps(P)).replace('__PAL__', json.dumps(PALETTE))
+    open(os.path.join(OUT, 'persona-wall.html'), 'w').write(html); print('wall', len(P))
 if __name__ == '__main__': main()

diff --git a/packages/media/src/sprites/build/build_cast.py b/packages/media/src/sprites/build/build_cast.py
@@ -31,6 +31,10 @@ ROSTER = [
     ('student-04', 'student-04', 'student'), ('student-05', 'student-05', 'student'), ('student-06', 'student-06', 'student'),
     ('mediator', 'mediator', 'mediator'), ('ta', 'ta', 'ta'),
 ]
+NAMES = {'cubbie': 'Cubbie', 'examiner': 'The Examiner', 'dean': 'The Dean', 'expert-ada': 'Prof. Ada', 'expert-sage': 'Sage', 'expert-monk': 'Brother Bit',
+         'expert-mage': 'Mage Moda', 'rival': 'The Rival', 'council-chill': 'Chill', 'council-grind': 'Grind', 'council-advisor': 'Advisor', 'chairman': 'The Chairman',
+         'feynman': 'Feynman Freshman', 'student-01': 'Student 1', 'student-02': 'Student 2', 'student-03': 'Student 3', 'student-04': 'Student 4',
+         'student-05': 'Student 5', 'student-06': 'Student 6', 'mediator': 'The Mediator', 'ta': 'The TA'}
 PAL = {v + (255,) for v in RGB.values()}
 
 def to_img(cv):
@@ -87,7 +91,7 @@ def main():
         json.dump(dict(version=2, id=rid, cell=dict(w=CELL, h=CELL), facing='right', anchors=dict(feet=ANCHOR, head=dict(x=16, y=top), bubble=dict(x=16, y=max(top - 3, 0))),
                        portrait='portrait.png', frames=pf, anims=pa), open(os.path.join(d, 'frames.json'), 'w'), indent=2)
         open(os.path.join(d, 'frames.json'), 'a').write('\n')
-        anims[rid] = per_anims; meta.append(dict(id=rid, role=role, spec=spec, headTop=top))
+        anims[rid] = per_anims; meta.append(dict(id=rid, name=NAMES[rid], role=role, spec=spec, headTop=top))
     check(atlas, 'atlas'); atlas.save(os.path.join(OUT, 'cast.png'), optimize=True)
     json.dump(dict(frames=jf, animations=anims, meta=dict(app='squad media-art build_cast.py', image='cast.png', format='RGBA8888', size=dict(w=atlas.width, h=atlas.height), scale='1',
               anchor=ANCHOR, facing='right', note='engine flips for left; keys <id>/<anim>/<n>, anims idle walk talk sit wave, plus <id>/portrait')), open(os.path.join(OUT, 'cast.json'), 'w'), indent=1)

diff --git a/packages/media/src/gif/compose_frames.py b/packages/media/src/gif/compose_frames.py
@@ -50,7 +50,6 @@ def render(frame, show_bubble, head, scale, bg):
         for x in range(CARD_ART): px[x, gy + 1] = RGB['hill-near'] + (255,)
         for x in range(ox + 6, ox + 27):                     # hard-edged shadow ellipse on the ground
             px[x, gy] = RGB['ground'] + (255,)
-        for x in range(0, CARD_ART, 4): px[x, gy + 3] = RGB['hill-near'] + (255,) if gy + 3 < CARD_ART else None
     art.alpha_composite(frame, (ox, oy))
     if show_bubble: bubble(art, head, ox, oy)
     return art.resize((CARD_ART * scale, CARD_ART * scale), Image.NEAREST)

diff --git a/packages/media/src/sprites/README.md b/packages/media/src/sprites/README.md
@@ -1,0 +1,14 @@
+# media-art: personas, sprites, portraits, GIFs, Persona Wall
+
+Contract for consumers: `docs/sprite-api.md` (format v2). Art is the design-foundation 32x32 side-view cast (`assets/pixel/composed/scripts/characters_*.py`, read-only) plus extension characters in `build/ext_chars.py`.
+
+```
+pnpm --filter @squad/media build:sprites   # python3 + Pillow: assets/sprites/** (strips, portraits, cast.png/json, contact sheets), deterministic
+pnpm --filter @squad/media build:gifs      # needs ffmpeg: <id>/hello.gif, talk.gif (< 400 KB)
+pnpm --filter @squad/media build:wall      # assets/sprites/wall/persona-wall.html + wall-dark/light.png
+pnpm --filter @squad/media test            # registry, atlas validity, palette lock, GIFs
+open assets/sprites/wall/persona-wall.html # review every character, light/dark, 2x/3x/4x
+```
+Review sheets: `assets/sprites/_contact-cast-{2x,3x}-{dark,light}.png`, `_contact-anims.png`, and `docs/design/shots/media-art/`.
+Add a character: add a spec to `build/ext_chars.py` (palette names only), a row in `ROSTER` and `NAMES` in `build/build_cast.py`, a seed in `src/personas/data.ts`, rebuild, run the tests.
+Not verified: ElevenLabs voices (voiceId unset until media-audio designs them), real iMessage rendering of the GIFs on a phone.
